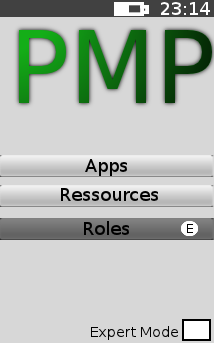
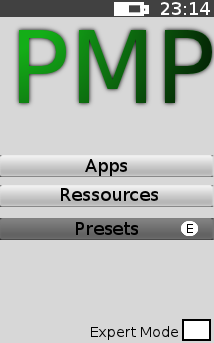
Fixed errors 6,7,8,9,10 refs #21

Changed region(s): [[0.3364, 0.6414, 0.6449, 0.6997]]

diff --git a/documentation/specification/specification.html b/documentation/specification/specification.html
@@ -80,68 +80,111 @@
 			
 			<h1 id="benutzeroberfläche">Benutzeroberfläche</h1>
 			<p></p>
-			<h2 id="hauptmenu">Hauptmenü</h2>     
-			<img src="images/S1-Hauptmenue.png" alt="Hauptmenu" style="width:30%;float:right;margin-left:5px;">
-			<p>Das Startmenü im Simple-Mode besteht aus zwei Optionen:
-			<ul>
-			<li>Applikationen (Apps)</li>
-			<li>Ressourcen (Ressources)</li>
-			<li>Voreinstellungen (Presets)</li>
-			</ul></p>
-			<!--<p><img src="images/S1-Hauptmenue.png" alt="Hauptmenu" style="width:30%;"></p>-->
-			
-			<p><!-- ToDo: Noch prüfen, ob ausführlich genug oder zuviel + ob Inhalt OK -->
-			  Über die Schaltfläche "Expert Mode" ist es dem Bentzer möglich, in den 
-			  Expert Mode zu wechseln. Dieser bietet Zugriff auf alle Funktionen der PMP
-			  und ist daher für erfahrene Benutzer gedacht, die mit der PMP vertraut sind
-			  und Zugriff auf alle Einstellungsmöglichkeiten haben möchten.
-			</p>
-			<p>
-			  Da der Expert Mode erst für folgende Iterationen geplant ist, wird auf ihn
-			  in dieser Spezifikation nicht näher eingegangen.
-			  
-			  <!--Gehört hier eigentlich nicht hin. Habe es als Kommentar dringelassen,
-			  falls es in einem anderen Kaptiel benötigt werden sollte:
-			  --------------------------------------------------------------------
-        Allerdings muss beim Entwurf und der Implementierung während der ersten 
-        Iteration darauf geachtet werden, dass das spätere Hinzufügen des 
-        Expert Mode ohne große Änderungen am bisher erstellten Programmcode möglich ist.
-        -->
-      </p> 
+			<h2 id="hauptmenu">Hauptmenü</h2>
+			<table>
+				<tr class= "left">
+					<td><p>Das Startmenü im Simple-Mode besteht aus zwei Optionen:
+						<ul>
+							<li>Applikationen (Apps)</li>
+							<li>Ressourcen (Ressources)</li>
+							<li>Voreinstellungen (Presets)</li>
+						</ul></p>
+						<p><!-- ToDo: Noch prüfen, ob ausführlich genug oder zuviel + ob Inhalt OK -->
+							Über die Schaltfläche "Expert Mode" ist es dem Bentzer möglich, in den 
+							Expert Mode zu wechseln. Dieser bietet Zugriff auf alle Funktionen der PMP
+							und ist daher für erfahrene Benutzer gedacht, die mit der PMP vertraut sind
+							und Zugriff auf alle Einstellungsmöglichkeiten haben möchten.
+						</p>
+						<p>
+							Da der Expert Mode erst für folgende Iterationen geplant ist, wird auf ihn
+							in dieser Spezifikation nicht näher eingegangen.</p>
+							<p>Die Platzhalter für weitere Iterationen sind alle mit einem "E" (Expert Mode) markiert.</p>
+							<!--Gehört hier eigentlich nicht hin. Habe es als Kommentar dringelassen,
+							falls es in einem anderen Kaptiel benötigt werden sollte:
+							--------------------------------------------------------------------
+							Allerdings muss beim Entwurf und der Implementierung während der ersten 
+							Iteration darauf geachtet werden, dass das spätere Hinzufügen des 
+							Expert Mode ohne große Änderungen am bisher erstellten Programmcode möglich ist.
+							-->
+						</p> 
+					</td>
+					<td><img src="images/S1-Hauptmenue.png" alt="Hauptmenu"></td>
+				</tr>
+			</table>
 			
 			<h2 id="applikationen" style="clear:right;">Applikationen</h2>
-			<img src="images/S2-AppscreenSM.png" alt="Applikationen" style="width:30%;float:right;margin-left:5px;">
-			<p>Im Applikations-Menü kann man den Service Level der einzelnen Apps einstellen.</p>
-			<!--<img src="images/S2-AppscreenSM.png" alt="Applikationen" style="width:30%;">-->         
-			<p style="clear:right;padding-top:5px;">
-        <img src="images/S3-ServiceLevel.png" alt="Service Level" style="width:30%;float:right;margin-left:5px;">
-        Durch das einfache Draufgehen auf eine App erscheint eine Liste mit den möglichen  Service Levels:
-      </p>
-
-			<!--<img src="images/S3-ServiceLevel.png" alt="Service Level" style="width:30%;">-->
-			<p style="clear:right;padding-top:5px;"> 
-        <img src="images/S4-ServiceLeve Description.png" alt="Service Level Description" style="width:30%;float:right;margin-left:5px;">
-        Beim Auswählen des Levels wird ein Informationsfenster angezeigt. 
-  			Dieses beschreibt die Details des eingeschalteten Levels. 
-  			Man kann den Dialog entweder bestätigen oder schließen.
-      </p>
-			<!--<img src="images/S4-ServiceLeve Description.png" alt="Service Level Description" style="width:30%;">-->
+			
+			<table>
+				<tr class= "left">
+					<td><p>Im Applikations-Menü kann man den Service Level der einzelnen Apps einstellen.</p>
+						<p>Im Experten Mode wird es möglich sein einzelne Apps den Voreinstellungen (Presets) zuzuweisen.
+						Im Bild: "Assign Presets"</p>
+					</td>
+					<td><img src="images/S2-AppscreenSM.png" alt="Applikationen"></td>
+				</tr>
+				<tr class= "left">
+					<td>
+						<p>Über Anwählen einer App ist es möglich Service Level für diese auszuwählen.
+						Bereits ausgewählte Service Level werden als markiert angezeigt.</p>
+					</td>
+					<td><img src="images/S3-ServiceLevel.png"></td>
+				</tr>
+				<tr class= "left">
+					<td>
+						<p>
+							Beim Auswählen des Levels wird ein Informationsfenster angezeigt. 
+							Dieses beschreibt die Details des eingeschalteten Levels.</p> 
+						<p>Durch das Bestätigen des Informationsfensters wird der ausgewählte Service Level gesetz.</p> 
+						<p>Durch das Schließen wird der Vorgang abgebrochen.</p>
+					</td>
+					<td><img src="images/S4-ServiceLeve Description.png" alt="Service Level Description"></td>
+				</tr>
+			</table>
+			
 			<h2 id="ressourcen" style="clear:right;">Ressourcen</h2>
-			<p>
-        <div style="float:right;">
-          <img src="images/S5-ressource.png" alt="Ressource" style="width:30%;">
-			    <img src="images/S6-ressourceAbout.png" alt="Ressource Description" style="width:30%;">
-        </div>
-        Im zweiten Menü kann man Ressourcen ansehen, die mit PMP benützt werden können.</p>
-			<!--<img src="images/S5-ressource.png" alt="Ressource" style="width:30%;">
-			<img src="images/S6-ressourceAbout.png" alt="Ressource Description" style="width:30%;">
-			-->
-			
-			<h2 id="Installation" style="clear:right;">Installation</h2>
-			<p>Beim Installieren neuer mit der PMP kompatiblen Apps, wird man der App gleich einen Service Level zuweisen können.</p>
-			<img src="images/S0-App Installation1.png" alt="Installation" style="width:30%;">
-			<img src="images/S0-App Installation2.png" alt="Installation2" style="width:30%;">
-			
+			<table>
+				<tr>
+					<td>
+					<p>Im zweiten Menü werden alle Ressourcen aufgelistet.
+					Beim Auswählen einer Ressource wird ein Informationsfenster angezeigt.</p>
+					
+					</td>
+					<td>
+					<img src="images/S5-ressource.png" alt="Ressource">
+					</td>
+				</tr>
+				<tr>
+					<td>
+					<p>Hier wird die Beschreibung der Ressource angezeigt.</p>
+					<p>Dieses Informationsfenster kann ohne Probleme geschlossen werden.</p>
+					</td>
+					<td>
+					<img src="images/S6-ressourceAbout.png" alt="Ressource Description">
+					</td>
+				</tr>
+			</table>
+
+			<h2 id="app-hinzufügen" style="clear:right;">App hinzufügen</h2>
+			<table>
+				<tr>
+					<td>
+					<p>Beim Starten einer neuen zu PMP kompatiblen App wird es möglich sein 
+					den Service Level zu setzen.</p>
+					</td>
+					<td>
+					<img src="images/S0-App Starting1.png" alt="Installation">
+					</td>
+				</tr>
+				<tr>
+					<td>
+					<p>Beschreibung s.o. <span class="reference" title="#applikationen"></span>.</p>
+					</td>
+					<td>
+					<img src="images/S0-App Starting2.png" alt="Installation2">
+					</td>
+				</tr>
+			</table>
+
 			<h1 id="funktionale-anforderungen">Funktionale Anforderungen</h1>
 			<p></p>
 			
